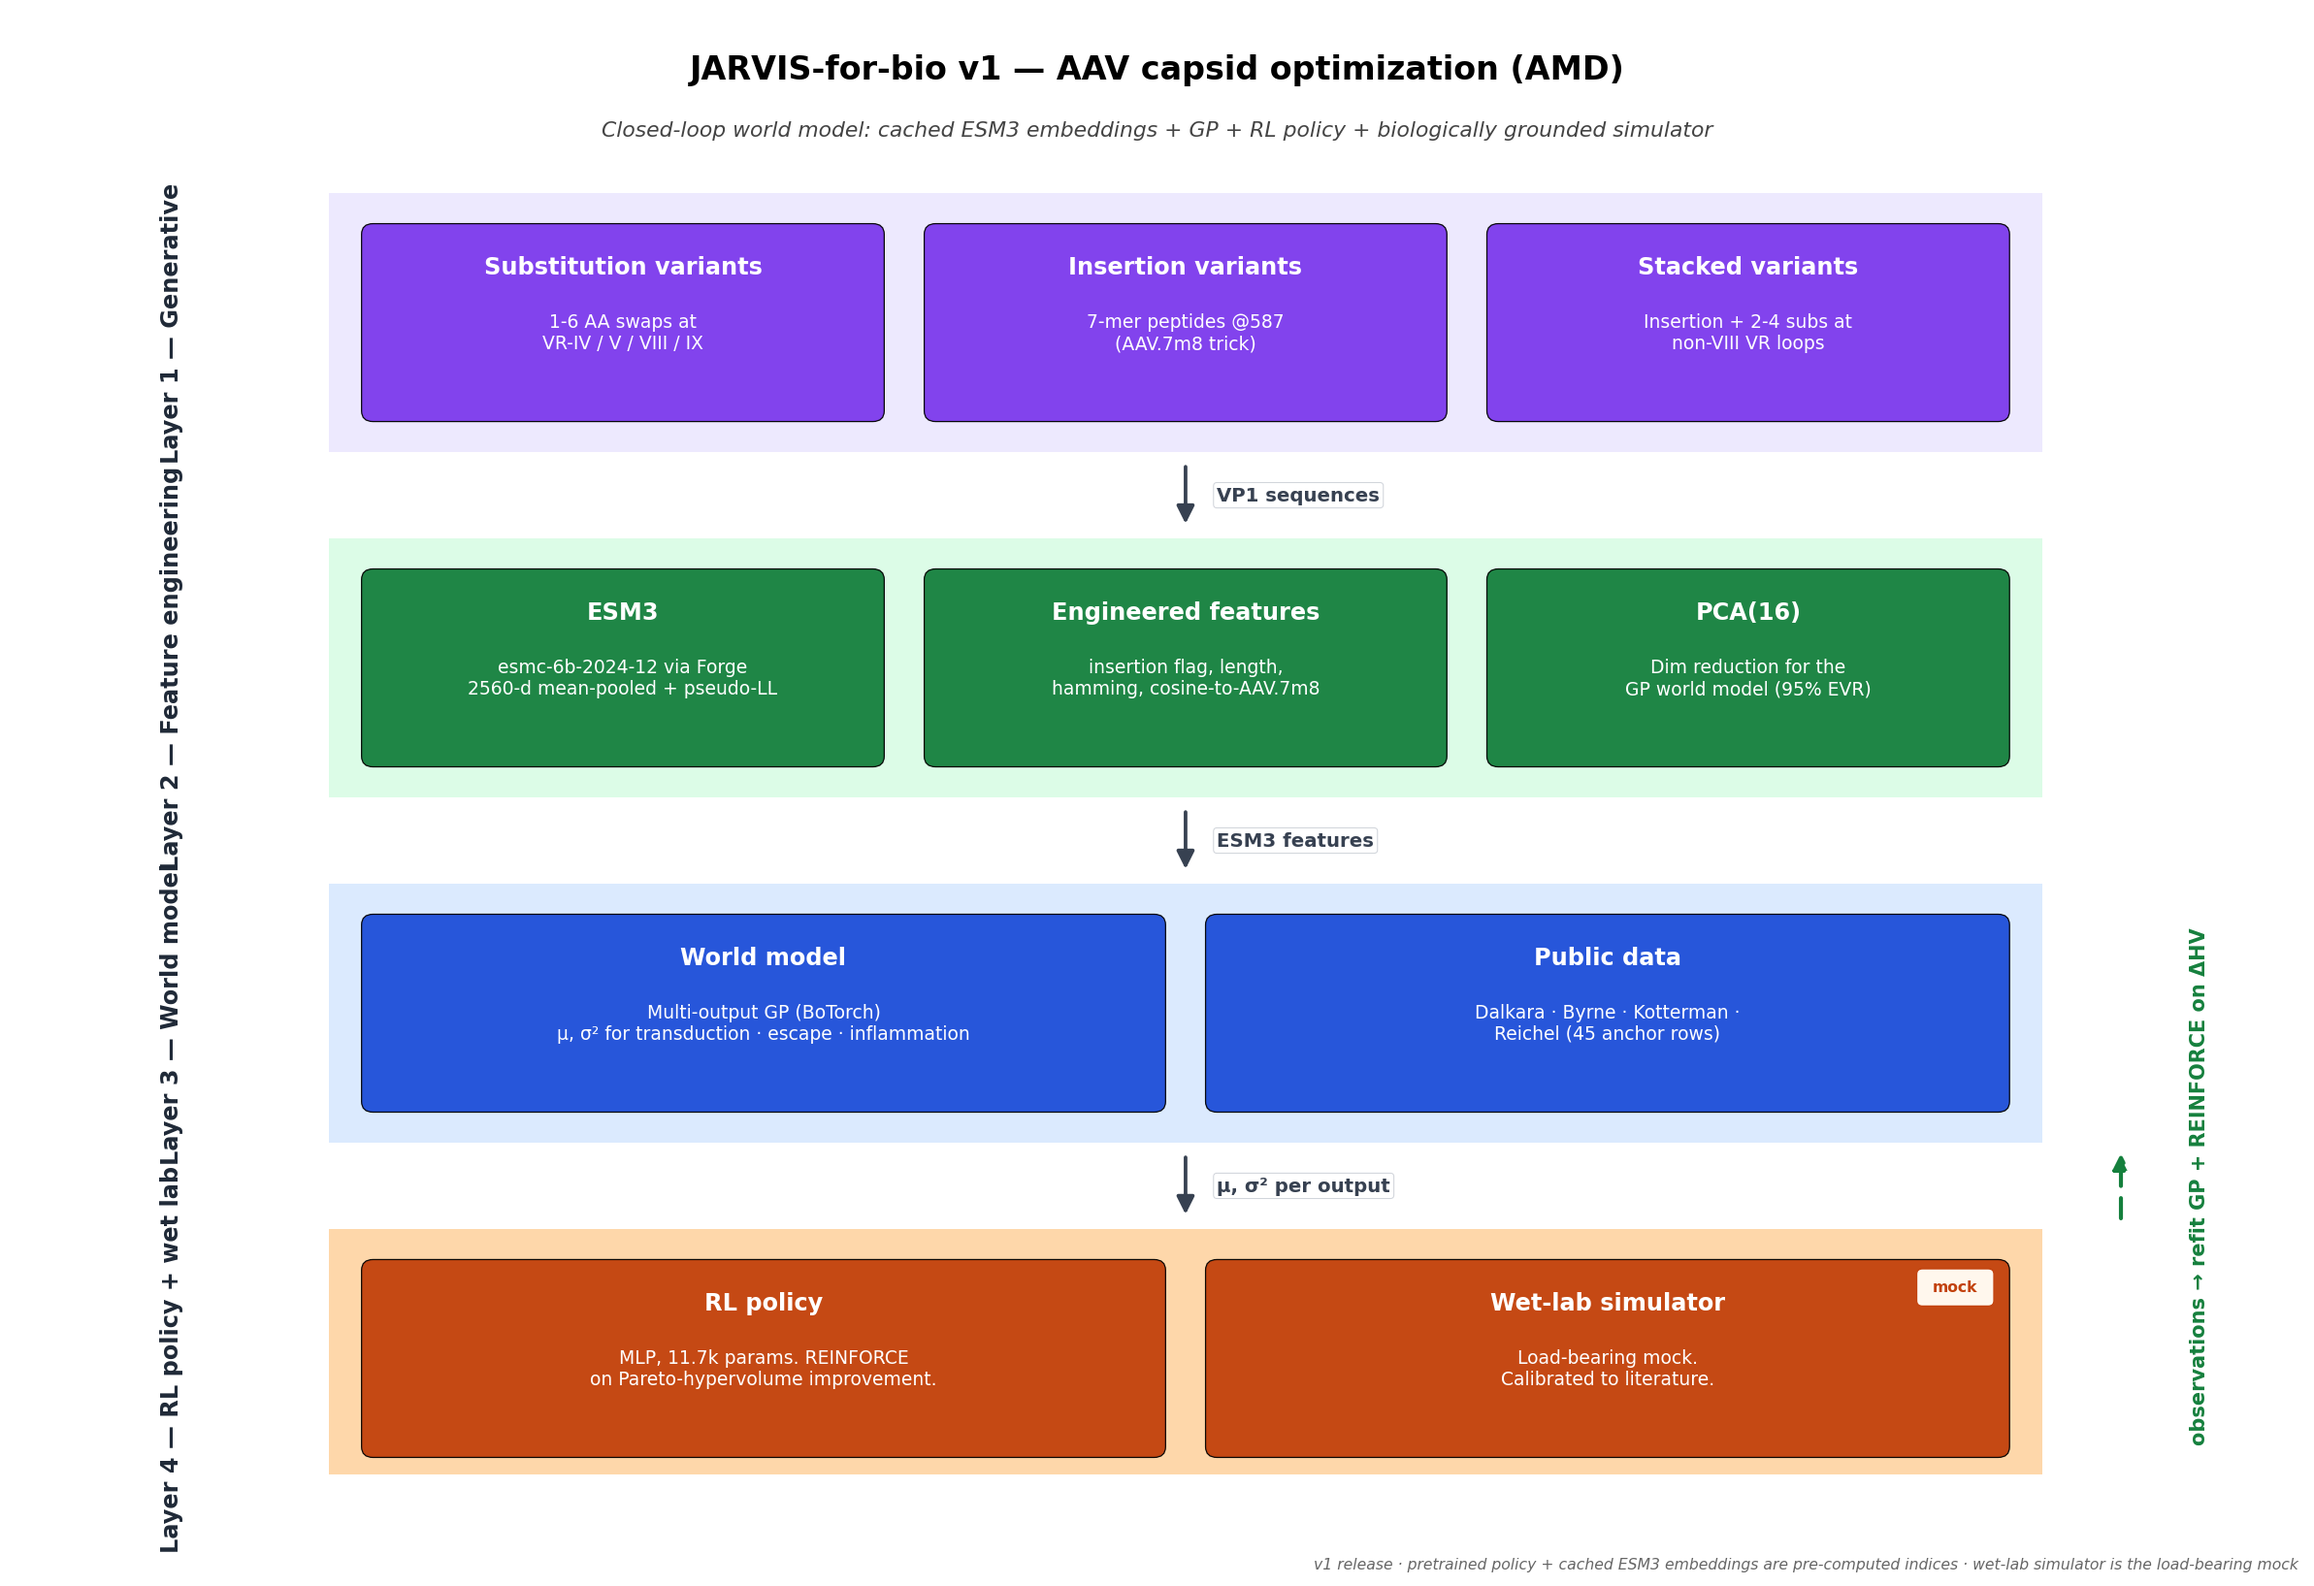
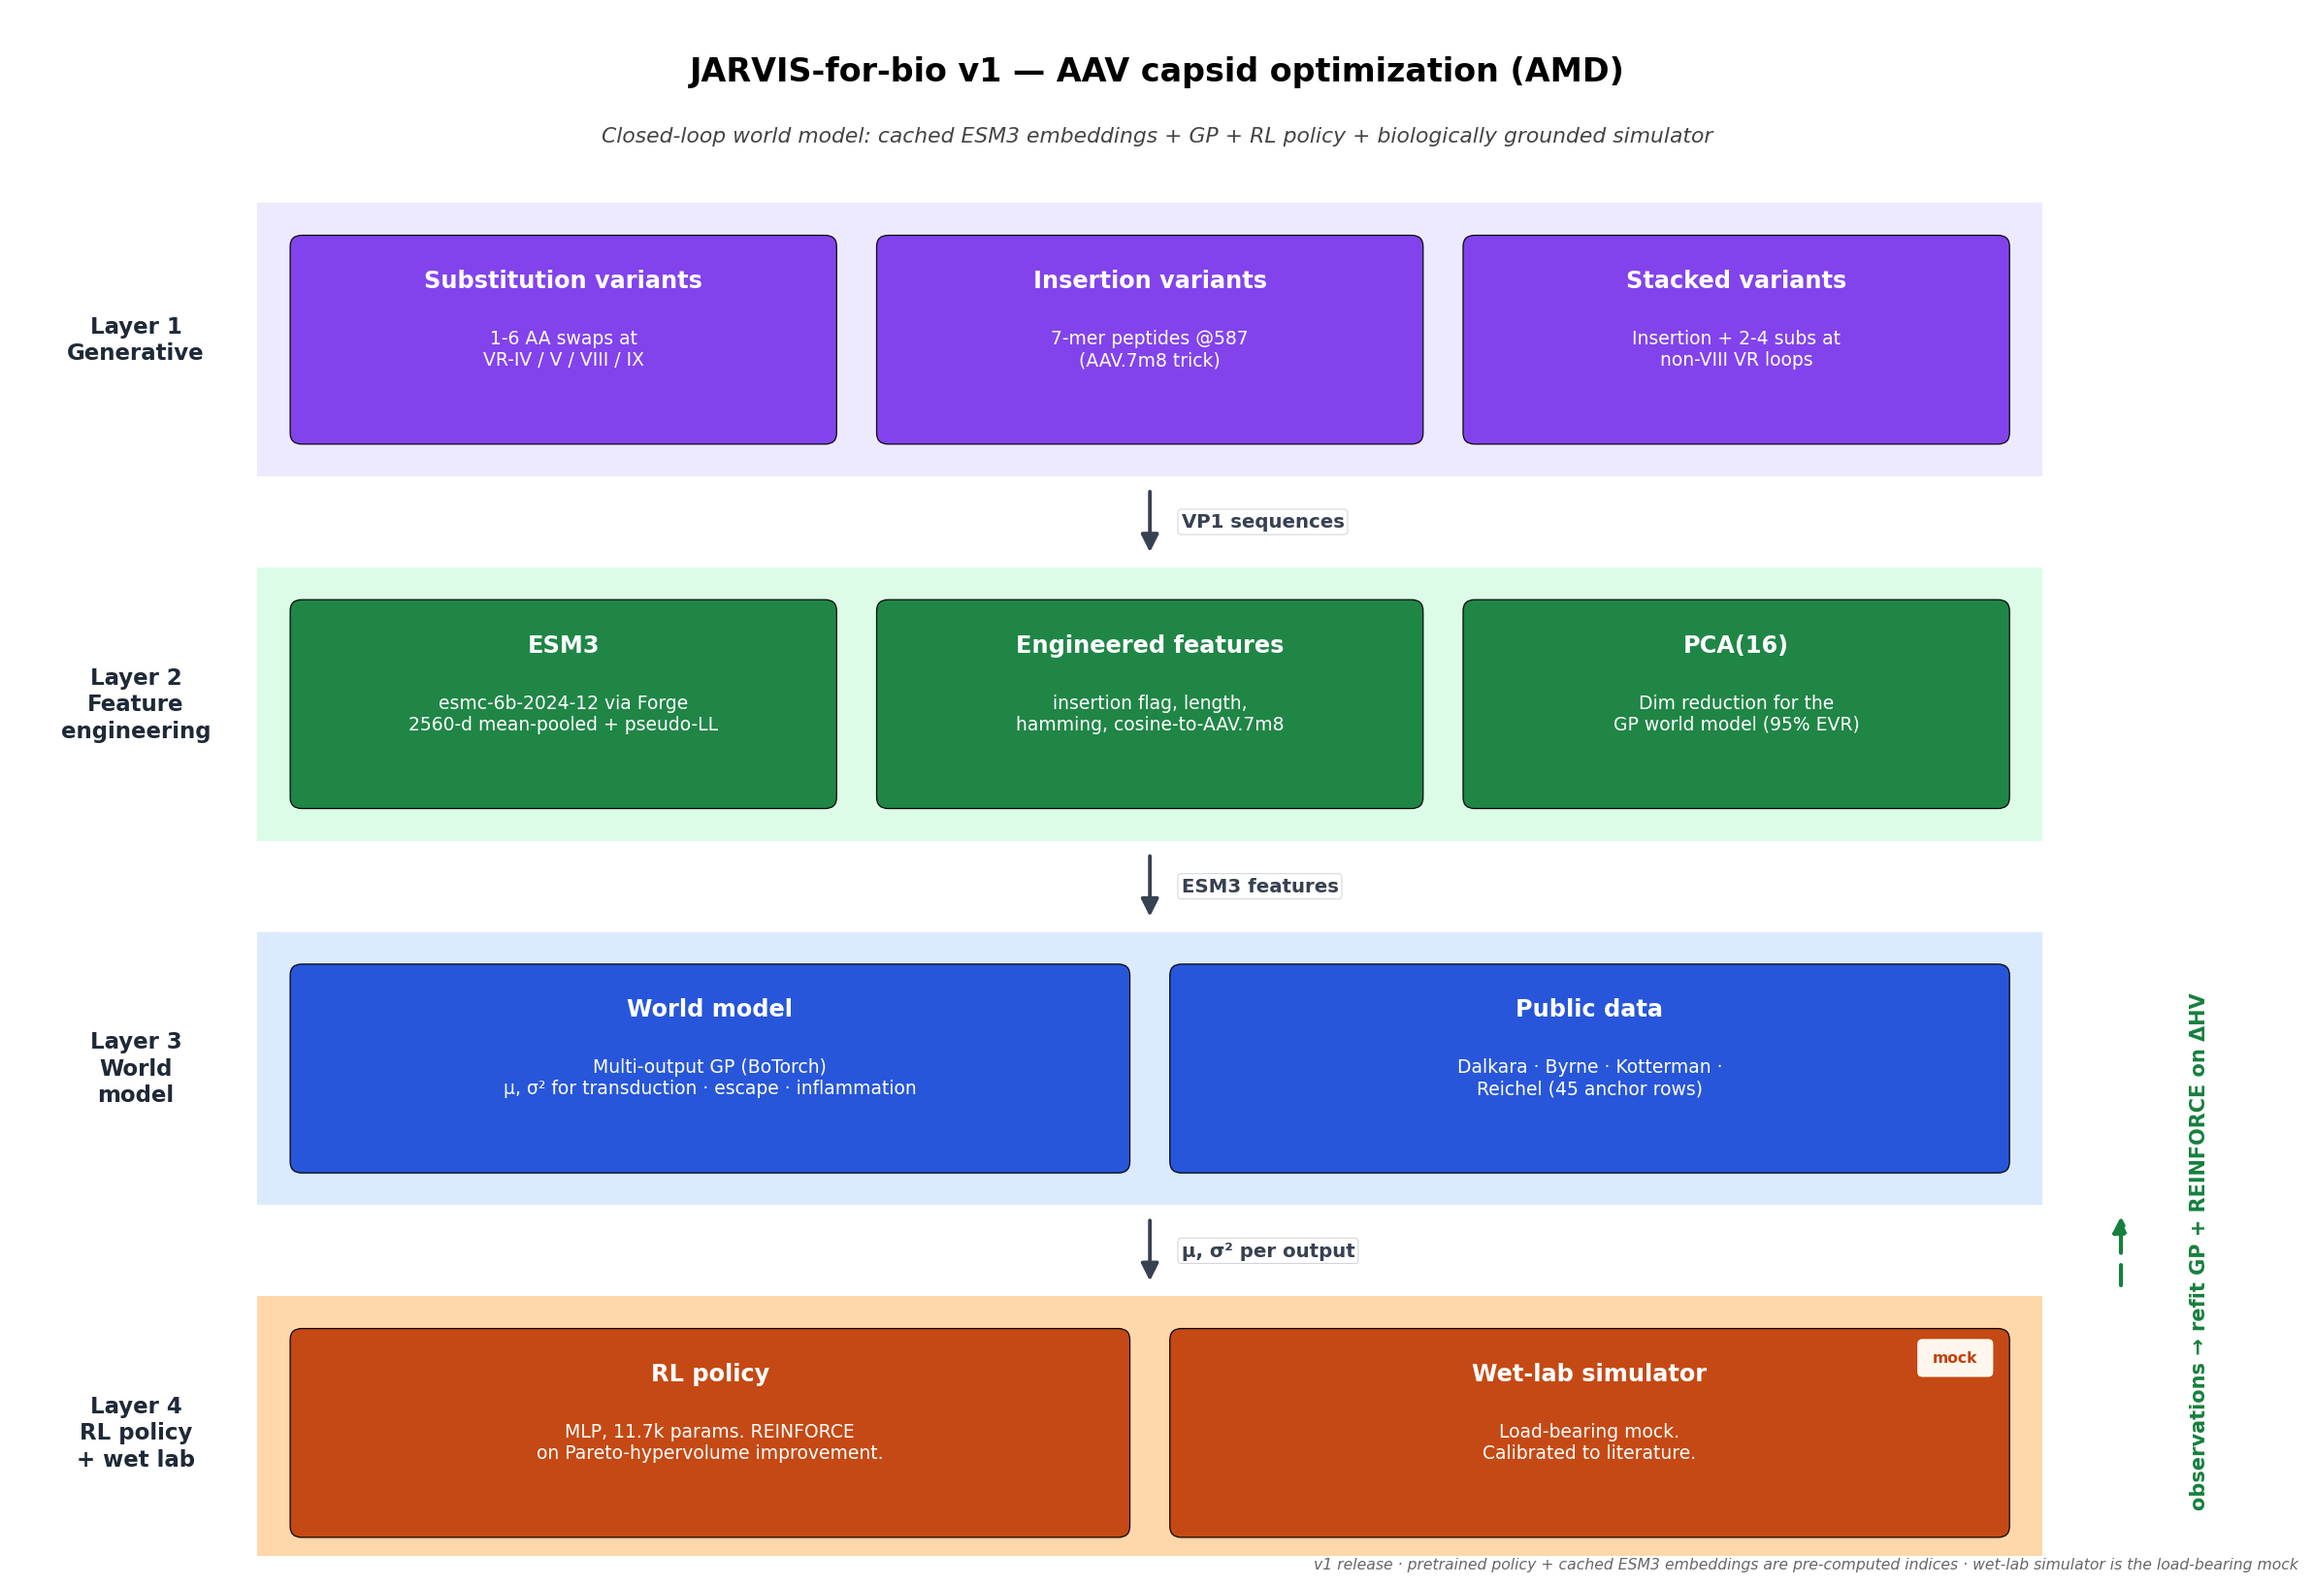
v1 architecture diagram: wrap layer labels horizontally
Replaces rotated single-line labels with horizontal multi-line wrapped
labels. Much easier to read, no rotated-text bbox collisions, and the
left margin shrinks because wrapped horizontal text takes less width
than rotated single-line.

diff --git a/v1_release/visualization/world_model.py b/v1_release/visualization/world_model.py
@@ -20,16 +20,16 @@ import config
 W, H = 16.0, 11.0
 LAYER_H = 1.95           # height of each pastel band
 LAYER_GAP = 0.65         # whitespace gap between bands (for arrows + labels)
-LEFT_MARGIN = 2.20       # dedicated column for rotated layer names
+LEFT_MARGIN = 1.70       # dedicated column for wrapped layer names
 RIGHT_MARGIN = 1.80      # dedicated column for the feedback-loop arrow
 LAYER_X0 = LEFT_MARGIN
 LAYER_X1 = W - RIGHT_MARGIN
 
 LAYERS = [
-    ("Layer 1 — Generative",         "#ede9fe", "#7c3aed", "white"),
-    ("Layer 2 — Feature engineering","#dcfce7", "#15803d", "white"),
-    ("Layer 3 — World model",        "#dbeafe", "#1d4ed8", "white"),
-    ("Layer 4 — RL policy + wet lab","#fed7aa", "#c2410c", "white"),
+    ("Layer 1\nGenerative",          "#ede9fe", "#7c3aed", "white"),
+    ("Layer 2\nFeature\nengineering","#dcfce7", "#15803d", "white"),
+    ("Layer 3\nWorld\nmodel",        "#dbeafe", "#1d4ed8", "white"),
+    ("Layer 4\nRL policy\n+ wet lab","#fed7aa", "#c2410c", "white"),
 ]
 
 BOXES = [
@@ -110,12 +110,12 @@ def main(out_path: Path = config.OUTPUTS_DIR / "world_model.png") -> None:
             facecolor=bg, edgecolor="none", zorder=1,
         ))
 
-        # Rotated layer label in the dedicated left margin
-        # Place the rotated text in the middle of the left margin so its
-        # bounding box doesn't run into the pastel band.
+        # Horizontal multi-line layer label in the dedicated left margin
+        # (no rotation — easier to read, fits naturally inside the band height).
         ax.text(LEFT_MARGIN / 2, (y0 + y1) / 2, label,
-                ha="center", va="center", rotation=90,
-                fontsize=11.5, fontweight="bold", color="#1f2937", zorder=2)
+                ha="center", va="center",
+                fontsize=11, fontweight="bold", color="#1f2937",
+                linespacing=1.25, zorder=2)
 
         # Boxes inside the band
         n = len(boxes)
